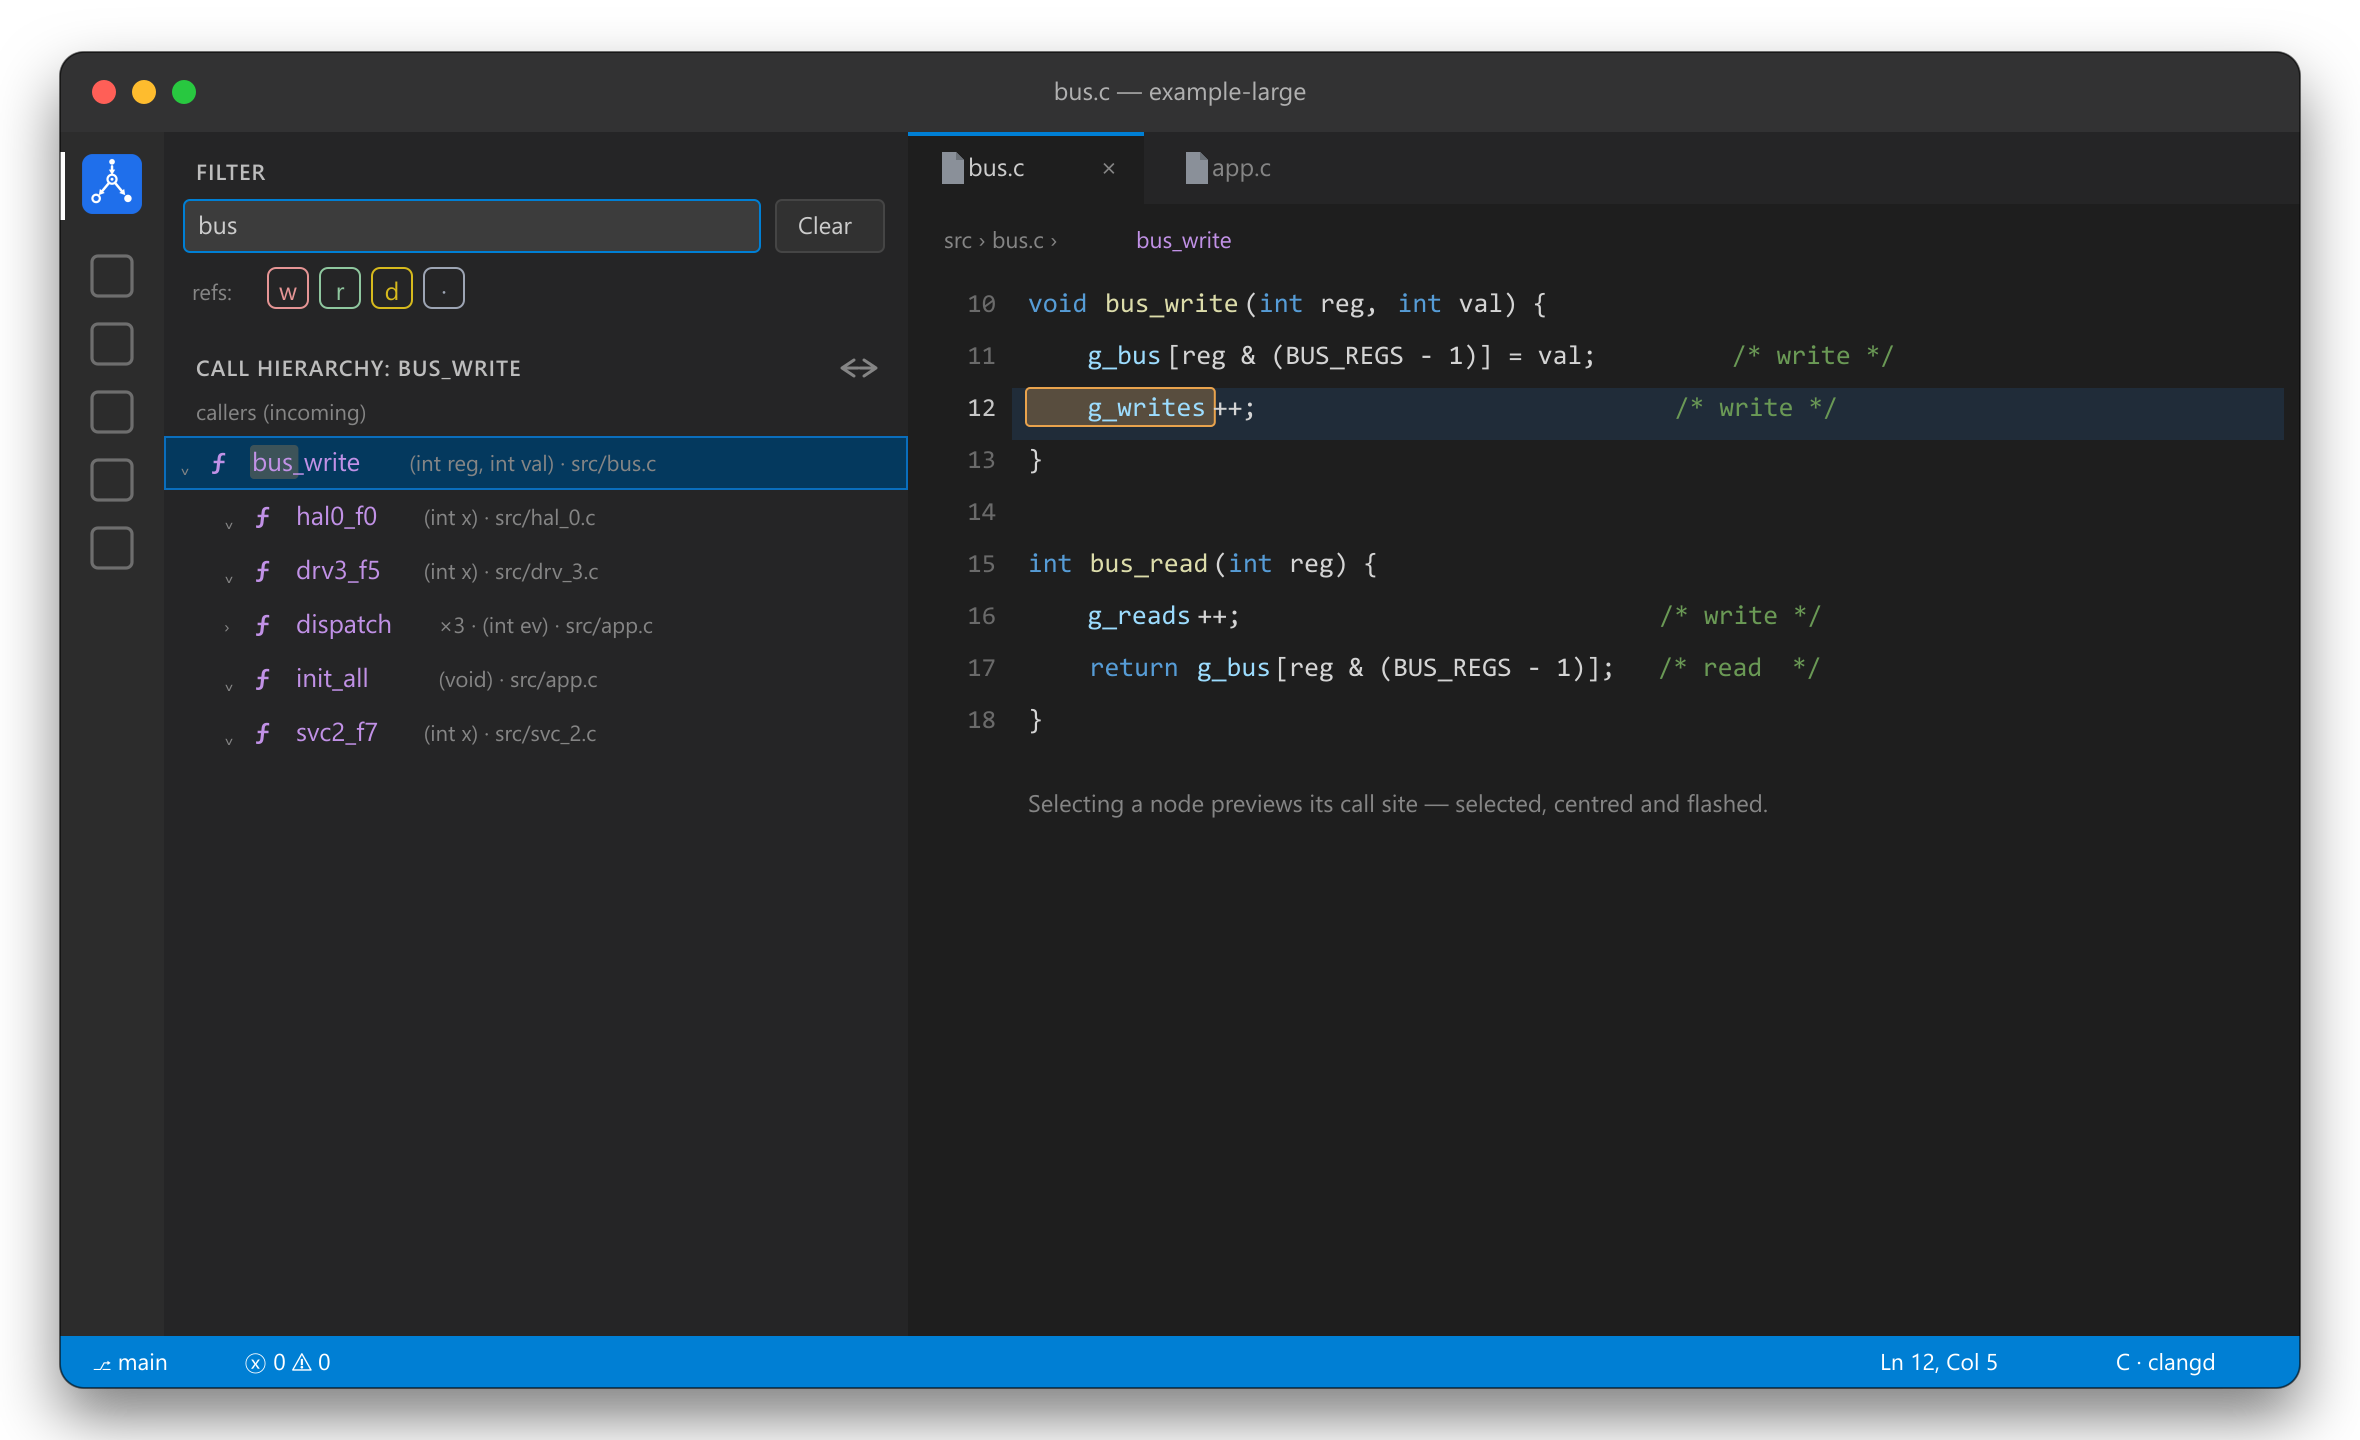
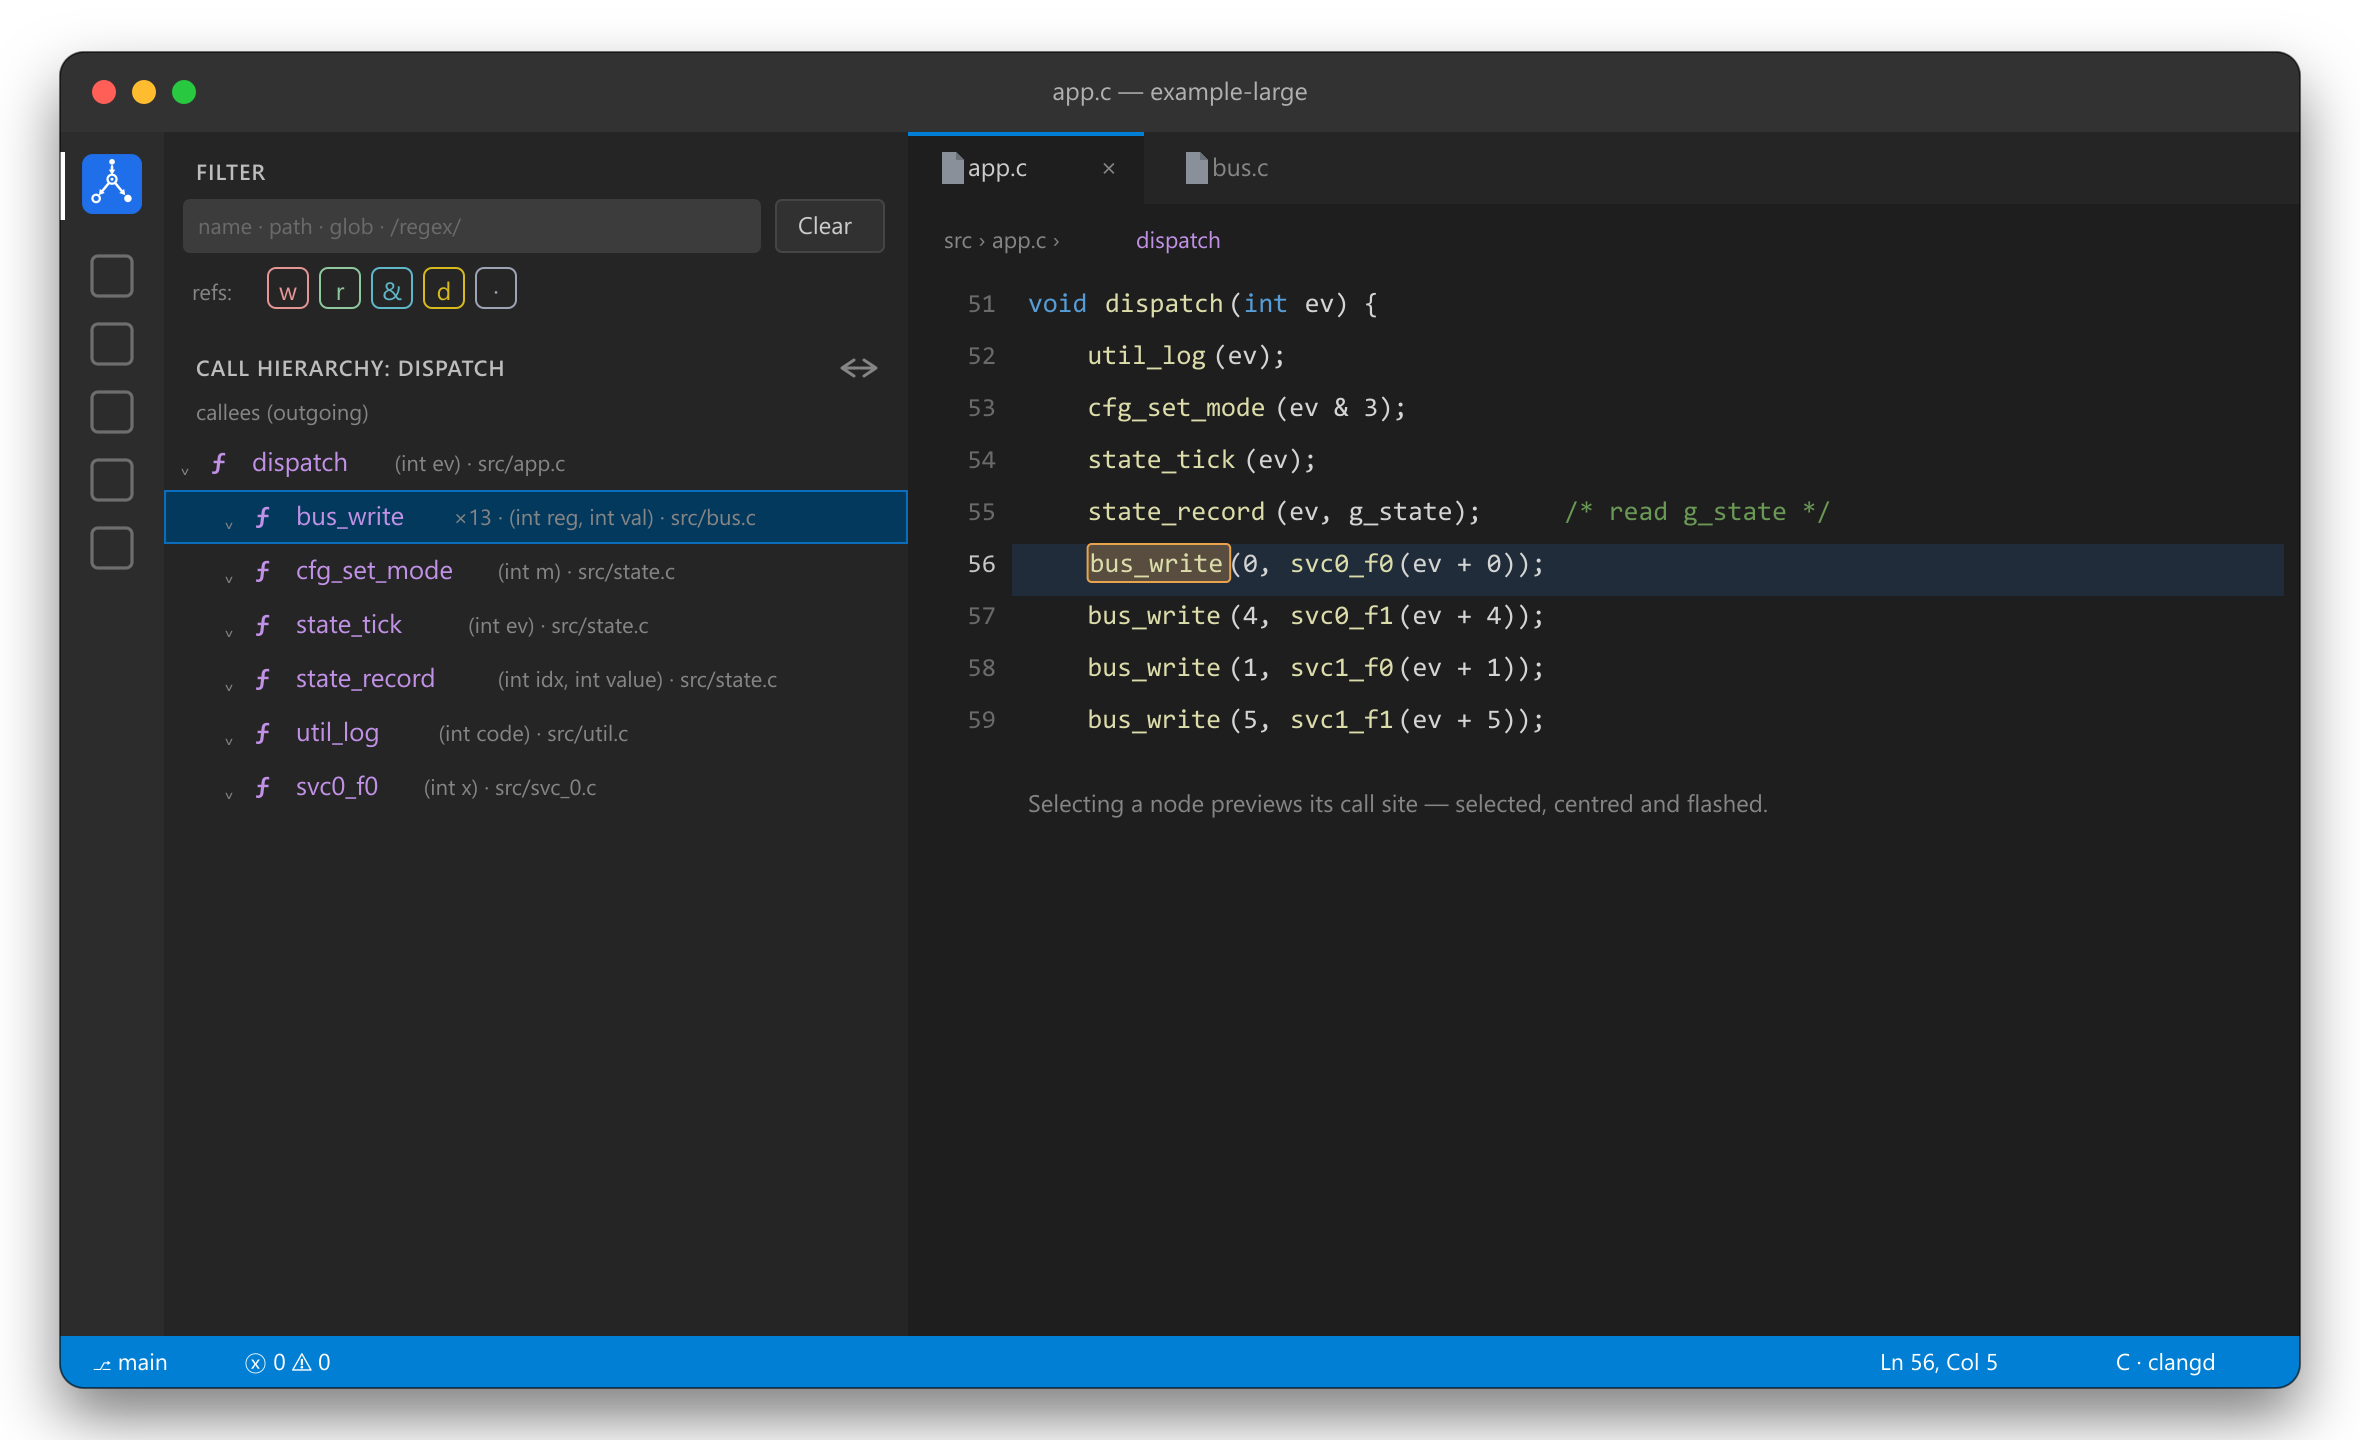
README screenshots from real example-large data
Rebuild the mockups using the actual workspace + clangd output instead of
made-up content, so they match what the extension really shows:
- hero: dispatch()'s real outgoing callees (incl. the real bus_write ×13 merged
  node) with real signatures/paths, and the real dispatch() source from app.c
  with the real bus_write call site (line 56) flashed.
- references: real references of g_state — its definition in bus.c:4 and the
  read/write/address-of uses in state.c, classified as the extension classifies
  them; the chips are the real w / r / & / d / · kinds.

Verified against the example-large source (grep/read) and the clangd integration
test (bus_write ×13, dispatch has 18 callees). Assets only; no version change.

diff --git a/tools/make-shots.js b/tools/make-shots.js
@@ -41,7 +41,7 @@ function chevron(x, cy, color, dir) {
   return `<path d="${d}" fill="none" stroke="${color}" stroke-width="1.5" stroke-linecap="round" stroke-linejoin="round"/>`;
 }
 function letter(x, cy, ch, color) {
-  return `<text x="${x}" y="${cy + 4}" font-family="${UI}" font-size="13" fill="${color}">${ch}</text>`;
+  return `<text x="${x}" y="${cy + 4}" font-family="${UI}" font-size="13" fill="${color}">${esc(ch)}</text>`;
 }
 function tw(x, cy, open) {
   return `<text x="${x}" y="${cy + 4}" font-family="${UI}" font-size="9" fill="${C.dim}">${open ? '⌄' : '›'}</text>`;
@@ -86,7 +86,7 @@ async function hero() {
   [['#ff5f57', 0], ['#febc2e', 1], ['#28c840', 2]].forEach(([col, i]) => {
     s += `<circle cx="${wx + 22 + i * 20}" cy="${wy + TB / 2}" r="6" fill="${col}"/>`;
   });
-  s += `<text x="${wx + ww / 2}" y="${wy + TB / 2 + 4}" text-anchor="middle" font-family="${UI}" font-size="12.5" fill="#cfcfcf" opacity="0.8">bus.c — example-large</text>`;
+  s += `<text x="${wx + ww / 2}" y="${wy + TB / 2 + 4}" text-anchor="middle" font-family="${UI}" font-size="12.5" fill="#cfcfcf" opacity="0.8">app.c — example-large</text>`;
 
   // ---- activity bar ----
   s += `<rect x="${wx}" y="${bodyY}" width="${AX}" height="${bodyH}" fill="#2c2c2c"/>`;
@@ -99,30 +99,33 @@ async function hero() {
   // ---- sidebar ----
   s += `<rect x="${sx}" y="${bodyY}" width="${SW}" height="${bodyH}" fill="${C.side}"/>`;
   s += sectHead(sx + 16, bodyY + 24, 'Filter');
-  s += `<rect x="${sx + 10}" y="${bodyY + 34}" width="${SW - 84}" height="26" rx="3" fill="${C.inp}" stroke="${C.focus}"/>`;
-  s += txt(sx + 17, bodyY + 47, 'bus', { size: 12.5 });
+  s += `<rect x="${sx + 10}" y="${bodyY + 34}" width="${SW - 84}" height="26" rx="3" fill="${C.inp}" stroke="#3c3c3c"/>`;
+  s += txt(sx + 17, bodyY + 47, 'name · path · glob · /regex/', { size: 11, fill: '#6a6a6a' });
   s += `<rect x="${sx + SW - 66}" y="${bodyY + 34}" width="54" height="26" rx="3" fill="#313131" stroke="#454545"/>`;
   s += txt(sx + SW - 55, bodyY + 47, 'Clear', { size: 12 });
   const chy = bodyY + 80;
   s += txt(sx + 14, chy, 'refs:', { size: 11, fill: C.dim });
-  [['w', C.red], ['r', C.green], ['d', C.yellow], ['·', C.gray]].forEach(([ch, col], i) => {
+  [['w', C.red], ['r', C.green], ['&', '#5FB7C9'], ['d', C.yellow], ['·', C.gray]].forEach(([ch, col], i) => {
     const cx = sx + 52 + i * 26;
     s += `<rect x="${cx}" y="${chy - 12}" width="20" height="20" rx="4" fill="none" stroke="${col}"/>`;
-    s += `<text x="${cx + 10}" y="${chy + 4}" text-anchor="middle" font-family="${UI}" font-size="12.5" fill="${col}">${ch}</text>`;
+    s += `<text x="${cx + 10}" y="${chy + 4}" text-anchor="middle" font-family="${UI}" font-size="12.5" fill="${col}">${esc(ch)}</text>`;
   });
   s += `<line x1="${sx}" y1="${chy + 18}" x2="${ex}" y2="${chy + 18}" stroke="${C.border}"/>`;
   const chT = chy + 18;
-  s += sectHead(sx + 16, chT + 24, 'Call Hierarchy: bus_write');
+  s += sectHead(sx + 16, chT + 24, 'Call Hierarchy: dispatch');
   s += chevron(ex - 38, chT + 20, C.dim, 'in');
   s += chevron(ex - 27, chT + 20, C.dim, 'out');
-  s += txt(sx + 16, chT + 42, 'callers (incoming)', { fill: C.dim, size: 11 });
+  s += txt(sx + 16, chT + 42, 'callees (outgoing)', { fill: C.dim, size: 11 });
+  // Real outgoing calls of dispatch() in src/app.c (clangd-verified: 18 callees,
+  // bus_write merged into one ×13 node).
   const rows = [
-    { ind: 8, tw: 1, nm: 'bus_write', desc: '(int reg, int val) · src/bus.c', sel: 1, hl: [0, 3] },
-    { ind: 30, tw: 1, nm: 'hal0_f0', desc: '(int x) · src/hal_0.c' },
-    { ind: 30, tw: 1, nm: 'drv3_f5', desc: '(int x) · src/drv_3.c' },
-    { ind: 30, tw: 0, nm: 'dispatch', desc: '×3 · (int ev) · src/app.c' },
-    { ind: 30, tw: 1, nm: 'init_all', desc: '(void) · src/app.c' },
-    { ind: 30, tw: 1, nm: 'svc2_f7', desc: '(int x) · src/svc_2.c' },
+    { ind: 8, tw: 1, nm: 'dispatch', desc: '(int ev) · src/app.c' },
+    { ind: 30, tw: 1, nm: 'bus_write', desc: '×13 · (int reg, int val) · src/bus.c', sel: 1 },
+    { ind: 30, tw: 1, nm: 'cfg_set_mode', desc: '(int m) · src/state.c' },
+    { ind: 30, tw: 1, nm: 'state_tick', desc: '(int ev) · src/state.c' },
+    { ind: 30, tw: 1, nm: 'state_record', desc: '(int idx, int value) · src/state.c' },
+    { ind: 30, tw: 1, nm: 'util_log', desc: '(int code) · src/util.c' },
+    { ind: 30, tw: 1, nm: 'svc0_f0', desc: '(int x) · src/svc_0.c' },
   ];
   let y = chT + 54;
   const lh = 27;
@@ -155,29 +158,31 @@ async function hero() {
   s += `<rect x="${ex}" y="${bodyY}" width="118" height="${tabH}" fill="${C.bg}"/>`;
   s += `<rect x="${ex}" y="${bodyY}" width="118" height="2" fill="${C.focus}"/>`;
   s += icoFile(ex + 16, bodyY + tabH / 2);
-  s += txt(ex + 30, bodyY + tabH / 2, 'bus.c', { size: 12.5, fill: C.fg });
+  s += txt(ex + 30, bodyY + tabH / 2, 'app.c', { size: 12.5, fill: C.fg });
   s += `<text x="${ex + 96}" y="${bodyY + tabH / 2 + 4}" font-family="${UI}" font-size="13" fill="${C.dim}">×</text>`;
   s += icoFile(ex + 138, bodyY + tabH / 2);
-  s += txt(ex + 152, bodyY + tabH / 2, 'app.c', { size: 12.5, fill: C.dim });
+  s += txt(ex + 152, bodyY + tabH / 2, 'bus.c', { size: 12.5, fill: C.dim });
   // breadcrumb
   const bcY = bodyY + tabH + 18;
-  s += txt(ex + 18, bcY, 'src  ›  bus.c  ›  ', { size: 11.5, fill: C.dim });
-  s += txt(ex + 18 + 96, bcY, 'bus_write', { size: 11.5, fill: C.func });
-  // code
+  s += txt(ex + 18, bcY, 'src  ›  app.c  ›  ', { size: 11.5, fill: C.dim });
+  s += txt(ex + 18 + 96, bcY, 'dispatch', { size: 11.5, fill: C.func });
+  // code — the real dispatch() in src/app.c; the selected bus_write callee's call
+  // site (line 56) is flashed.
+  const FN = '#dcdcaa';
   const code = [
-    [['void ', C.kw], ['bus_write', '#dcdcaa'], ['(', C.code], ['int', C.kw], [' reg, ', C.code], ['int', C.kw], [' val) {', C.code]],
-    [['    g_bus', C.gv], ['[reg & (BUS_REGS - 1)] = val;', C.code], ['        /* write */', C.cm]],
-    [['    g_writes', C.gv, 'flash'], ['++;', C.code], ['                            /* write */', C.cm]],
-    [['}', C.code]],
-    [['', C.code]],
-    [['int ', C.kw], ['bus_read', '#dcdcaa'], ['(', C.code], ['int', C.kw], [' reg) {', C.code]],
-    [['    g_reads', C.gv], ['++;', C.code], ['                            /* write */', C.cm]],
-    [['    ', C.code], ['return', C.kw], [' g_bus', C.gv], ['[reg & (BUS_REGS - 1)];', C.code], ['  /* read  */', C.cm]],
-    [['}', C.code]],
+    [['void ', C.kw], ['dispatch', FN], ['(', C.code], ['int', C.kw], [' ev) {', C.code]],
+    [['    util_log', FN], ['(ev);', C.code]],
+    [['    cfg_set_mode', FN], ['(ev & 3);', C.code]],
+    [['    state_tick', FN], ['(ev);', C.code]],
+    [['    state_record', FN], ['(ev, g_state);', C.code], ['     /* read g_state */', C.cm]],
+    [['    ', C.code], ['bus_write', FN, 'flash'], ['(0, ', C.code], ['svc0_f0', FN], ['(ev + 0));', C.code]],
+    [['    bus_write', FN], ['(4, ', C.code], ['svc0_f1', FN], ['(ev + 4));', C.code]],
+    [['    bus_write', FN], ['(1, ', C.code], ['svc1_f0', FN], ['(ev + 1));', C.code]],
+    [['    bus_write', FN], ['(5, ', C.code], ['svc1_f1', FN], ['(ev + 5));', C.code]],
   ];
   let ey = bcY + 22;
   code.forEach((line, li) => {
-    const ln = 10 + li;
+    const ln = 51 + li;
     const cy = ey + 14;
     const flashed = line.some((seg) => seg[2] === 'flash');
     if (flashed) s += `<rect x="${ex + 52}" y="${ey}" width="${eW - 60}" height="26" fill="rgba(38,79,120,0.30)"/>`;
@@ -201,7 +206,7 @@ async function hero() {
   const stc = stY + SB / 2 + 4;
   s += `<text x="${wx + 16}" y="${stc}" font-family="${UI}" font-size="11.5" fill="#ffffff">⎇ main</text>`;
   s += `<text x="${wx + 92}" y="${stc}" font-family="${UI}" font-size="11.5" fill="#ffffff">ⓧ 0   ⚠ 0</text>`;
-  s += `<text x="${wx + ww - 210}" y="${stc}" font-family="${UI}" font-size="11.5" fill="#ffffff">Ln 12, Col 5</text>`;
+  s += `<text x="${wx + ww - 210}" y="${stc}" font-family="${UI}" font-size="11.5" fill="#ffffff">Ln 56, Col 5</text>`;
   s += `<text x="${wx + ww - 92}" y="${stc}" font-family="${UI}" font-size="11.5" fill="#ffffff">C  ·  clangd</text>`;
 
   s += `</g>`;
@@ -220,29 +225,34 @@ async function references() {
   s += `<g clip-path="url(#panel)"><g transform="translate(${mx},${my})">`;
   s += `<rect width="${w}" height="${h}" fill="${C.side}"/>`;
   s += sectHead(16, 22, 'Filter');
-  s += `<rect x="8" y="30" width="${sw - 70}" height="24" rx="2" fill="${C.inp}" stroke="${C.focus}"/>`;
-  s += txt(15, 42, 'g_state', { size: 12 });
+  s += `<rect x="8" y="30" width="${sw - 70}" height="24" rx="2" fill="${C.inp}" stroke="#3c3c3c"/>`;
+  s += txt(15, 42, 'name · path · glob · /regex/', { size: 10.5, fill: '#6a6a6a' });
   s += `<rect x="${sw - 56}" y="30" width="48" height="24" rx="2" fill="#313131" stroke="#444"/>`;
   s += txt(sw - 48, 42, 'Clear', { size: 12 });
   const chy = 70; s += txt(12, chy, 'refs:', { size: 11, fill: C.dim });
-  const chips = [['w', C.red, 1], ['r', C.green, 1], ['d', C.yellow, 1], ['·', C.gray, 0]];
+  const chips = [['w', C.red, 1], ['r', C.green, 1], ['&', '#5FB7C9', 1], ['d', C.yellow, 1], ['·', C.gray, 0]];
   chips.forEach(([ch, col, on], i) => {
     const cx = 48 + i * 24;
     s += `<rect x="${cx}" y="${chy - 11}" width="18" height="18" rx="3" fill="none" stroke="${col}" opacity="${on ? 1 : 0.3}"/>`;
-    s += `<text x="${cx + 9}" y="${chy + 4}" text-anchor="middle" font-family="${UI}" font-size="12" fill="${col}" opacity="${on ? 1 : 0.3}">${ch}</text>`;
+    s += `<text x="${cx + 9}" y="${chy + 4}" text-anchor="middle" font-family="${UI}" font-size="12" fill="${col}" opacity="${on ? 1 : 0.3}">${esc(ch)}</text>`;
   });
   s += `<line x1="0" y1="90" x2="${w}" y2="90" stroke="#1b1b1b"/>`;
   s += sectHead(16, 112, 'References');
-  s += txt(18, 128, 'g_state · 9 refs in 3 files · 4w 4r 1d', { fill: C.dim, size: 11 });
+  s += txt(18, 128, 'g_state · 72 references in 11 files', { fill: C.dim, size: 11 });
+  // Real references of g_state (defined in src/bus.c, used across the project);
+  // read / write / address-of as the extension classifies them.
+  const ADDR = '#5FB7C9';
   const rows = [
-    { ind: 8, tw: 1, ic: icoFolder, nm: 'src', desc: '9 refs' },
-    { ind: 30, tw: 1, ic: icoFile, nm: 'bus.c', desc: '2 refs' },
-    { ind: 54, let: ['d', C.yellow], code: 'int g_state;', desc: ':5:5' },
-    { ind: 30, tw: 1, ic: icoFile, nm: 'state.c', desc: '7 refs' },
-    { ind: 54, let: ['w', C.red], code: 'g_events[ev & 31] = ', hl: 'g_state', tail: ';' },
+    { ind: 8, tw: 1, ic: icoFolder, nm: 'src', desc: '71 refs' },
+    { ind: 30, tw: 1, ic: icoFile, nm: 'bus.c', desc: '1' },
+    { ind: 54, let: ['d', C.yellow], code: 'int g_state;', desc: ':4' },
+    { ind: 30, tw: 1, ic: icoFile, nm: 'state.c', desc: '6' },
+    { ind: 54, let: ['r', C.green], code: 'g_events[ev & 31] = ', hl: 'g_state', tail: ';' },
     { ind: 54, let: ['r', C.green], code: 'if (', hl: 'g_state', tail: ' > 100) {' },
     { ind: 54, let: ['w', C.red], code: '', hl: 'g_state', tail: ' = 0;', sel: 1 },
-    { ind: 54, let: ['r', C.green], code: '', hl: 'g_state', tail: ' += cfg_get_mode();' },
+    { ind: 54, let: ['w', C.red], code: '', hl: 'g_state', tail: ' += cfg_get_mode();' },
+    { ind: 54, let: ['&', ADDR], code: 'state_load(&', hl: 'g_state', tail: ');' },
+    { ind: 54, let: ['r', C.green], code: 'return ', hl: 'g_state', tail: ' - e;' },
   ];
   let y = 138; const lh = 24;
   rows.forEach((r) => {